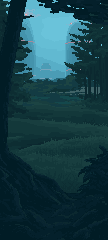
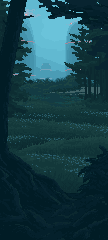
Background work.

diff --git a/script.js b/script.js
@@ -163,7 +163,7 @@
     // 2. DONE - Simple light FX after hitting "10".
     // 3. DONE - Target startup animation.
     // 4. DONE - Target after hit animation.
-    // 5. Polish midground of the background image.
+    // 5. DONE - Polish midground of the background image.
     // 6. DONE - Custom number colors after hits.
     // 7. Static background animation.
     // 8. Special FX after hitting the target / ground.
